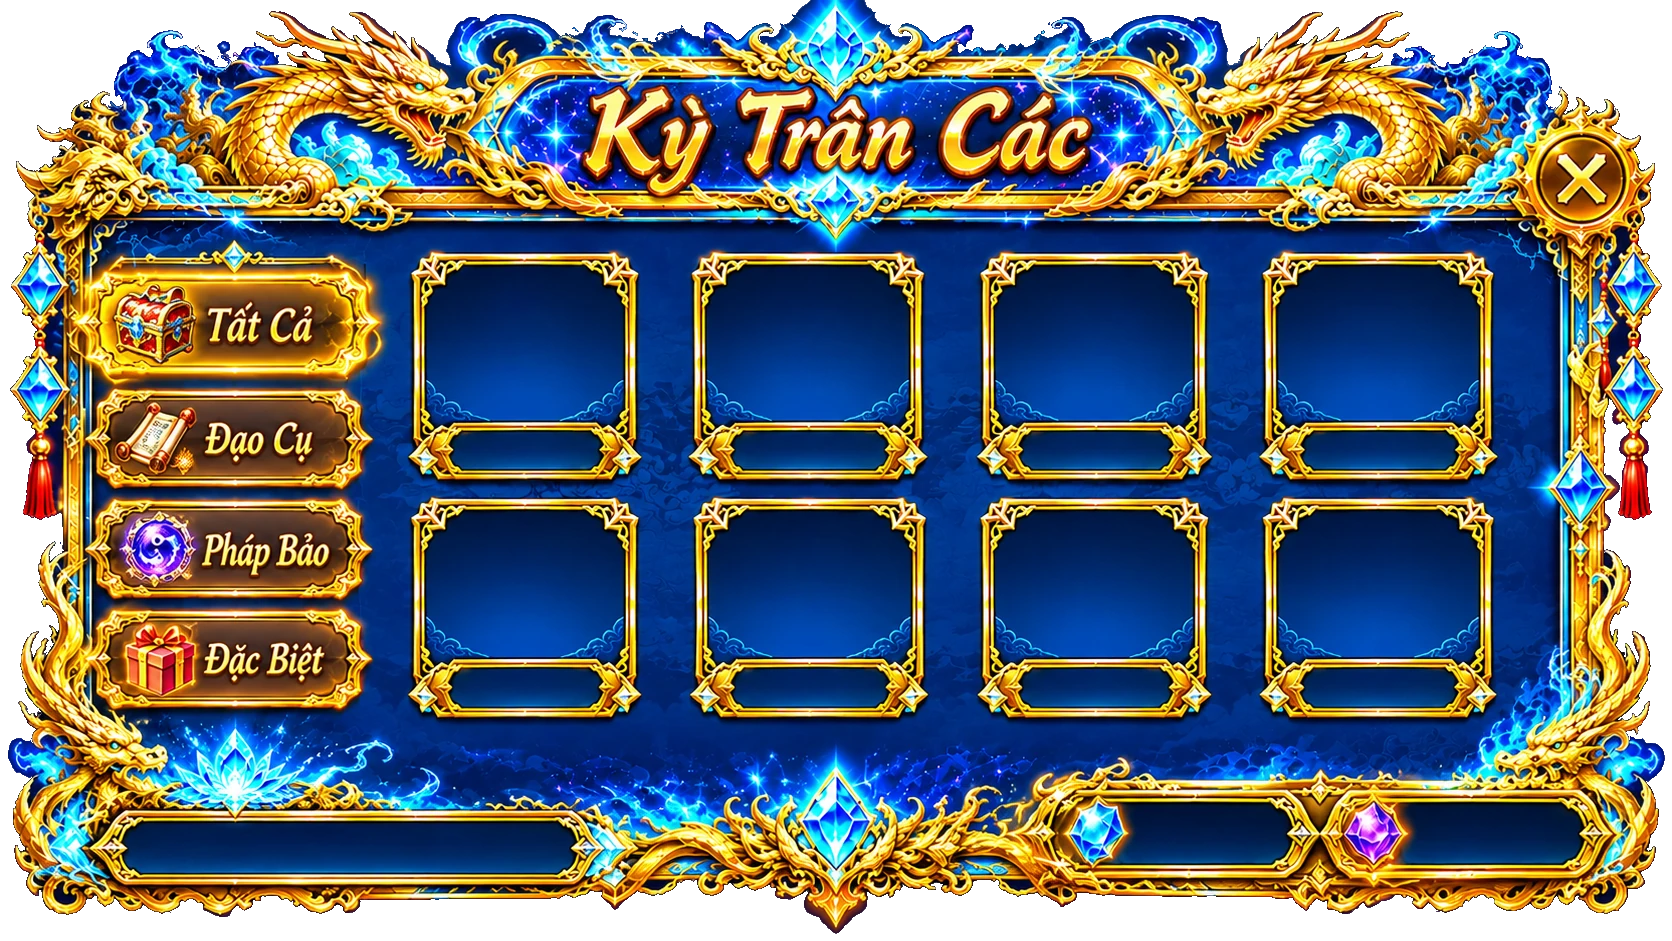
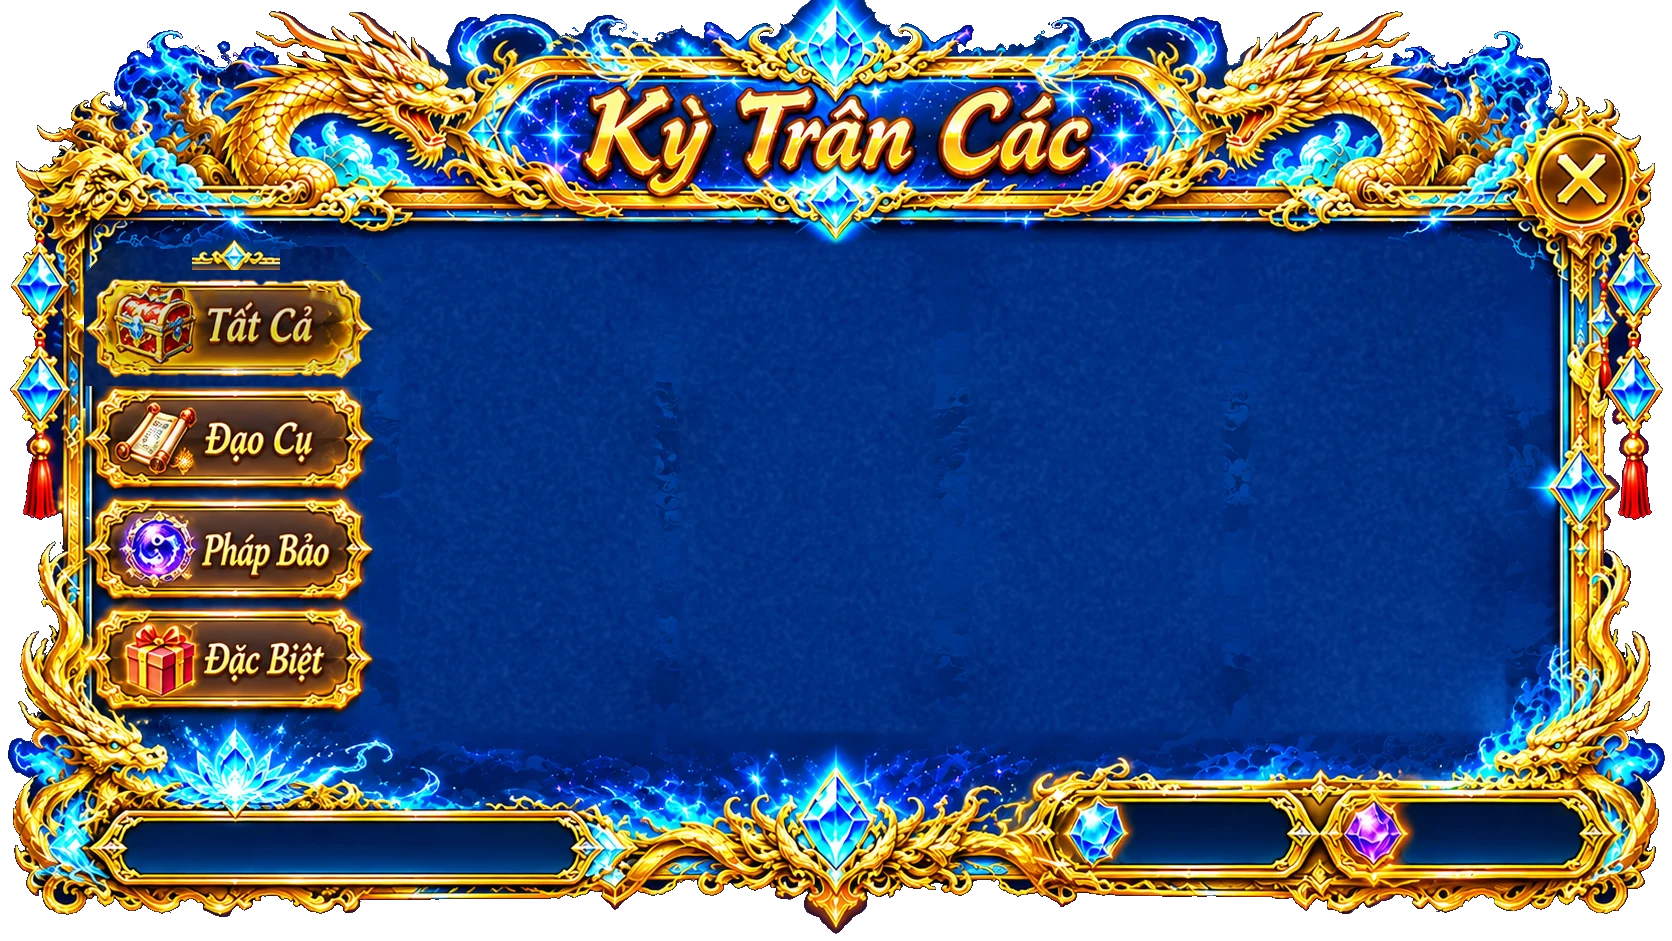
Cua hang: tab sang vien vang, luoi o cuon, dong ho lam moi 30 phut
Claude-Session: https://claude.ai/code/session_01WtY8uwZ5q8QWACvPTQwhAS

Changed region(s): [[0.0311, 0.2465, 0.9019, 0.8013]]

diff --git a/game-moi/85-cua-hang.js b/game-moi/85-cua-hang.js
@@ -1,21 +1,34 @@
-/* 85-cua-hang.js - KỲ TRÂN CÁC (cửa hàng). BƯỚC 1 (25/11/2026): chỉ có KHUNG + hiện TIỀN TỆ. CHƯA có vật phẩm, chưa mua bán.
-   Ảnh khung: game-moi/khung-cua-hang.webp (1672x941, đã tách nền). Chữ "Kỳ Trân Các", nút X, 4 nhãn bên trái (Tất Cả / Đạo Cụ / Pháp Bảo / Đặc Biệt),
-   8 ô vật phẩm trống, 2 ô tiền ở góc phải dưới đều đã VẼ SẴN trong ảnh. Module chỉ phủ vùng bấm trong suốt + vẽ số tiền lên 2 ô tiền.
-   Mở: bấm nút Kỳ Trân Các (81-nut-moi.js gọi TTGSHOP.open). Đóng: nút X, chạm ngoài khung, hoặc phím Esc.
-   Tiền: đọc từ 66-tien-te.js (TTGTIEN): ô trái (ngọc lam) = Tinh Thạch 'tt', ô phải (ngọc tím) = Thú Thần Thạch 'ttt'. Số tiền tự cập nhật mỗi 0,5s khi bảng đang mở.
-   Tọa độ tính theo pixel ảnh khung (SW x SH). Đổi ảnh khung khác thì chỉ sửa khối BOX bên dưới.
-   Việc kế tiếp (chưa làm): đưa vật phẩm vào 8 ô (ô nằm ở BOX.slots), 4 tab bên trái (BOX.tabs), ô thông tin dưới trái (BOX.info). */
+/* 85-cua-hang.js - KỲ TRÂN CÁC (cửa hàng). BƯỚC 2 (25/11/2026): khung + tiền tệ + 4 TAB sáng viền + LƯỚI Ô CUỘN + ĐỒNG HỒ LÀM MỚI 30 PHÚT. CHƯA có vật phẩm, chưa mua bán.
+   ẢNH (đều cắt từ ảnh khung gốc 1672x941):
+     khung-cua-hang.webp   = khung chính, đã XÓA 8 ô vuông và XÓA viền sáng của tab Tất Cả (4 tab đều ở trạng thái thường). Tiêu đề, nút X, nhãn tab, ô tiền, thanh dài dưới trái vẽ sẵn trong ảnh.
+     cua-hang-sang.webp    = VIỀN SÁNG VÀNG cắt từ tab Tất Cả (347x160, chỉ phần quầng ngoài viền). Phủ lên tab đang chọn.
+     cua-hang-tab-mask.webp= hình bóng tab (287x100) để làm sáng nhẹ thân tab đang chọn.
+     cua-hang-o.webp       = 1 ô vuông vật phẩm (240x235), nhân bản thành lưới cuộn.
+   TAB: Tất Cả / Đạo Cụ / Pháp Bảo / Đặc Biệt. Bấm tab nào thì tab đó sáng, lưới về đầu. Tab hiện tại: TTGSHOP.tab().
+   LƯỚI: 4 cột, cuộn dọc bằng thanh cuộn vàng bên phải (vuốt hoặc kéo thanh). Số ô = max(CFG.oToiThieu, số món làm tròn lên bội của 4). Hiện CHƯA có món nên hiện 16 ô trống để thử cuộn (CFG.oToiThieu); khi có món thì đổi hàm items(tab).
+   LÀM MỚI: CFG.lamMoiPhut = 30. Thanh dài dưới trái hiện "Làm mới sau: mm:ss". Mốc bắt đầu chu kỳ lưu ở localStorage khóa ttg_moi_cuahang_lm nên tắt game vẫn tính thời gian trôi. Hết 30 phút thì sang chu kỳ mới và gọi các hàm đăng ký bằng TTGSHOP.onRefresh(fn) (sau này dùng để đổi hàng bán).
+   TIỀN: đọc từ 66-tien-te.js (TTGTIEN): ô trái (ngọc lam) = Tinh Thạch 'tt', ô phải (ngọc tím) = Thú Thần Thạch 'ttt'.
+   Mở: nút Kỳ Trân Các (81-nut-moi.js gọi TTGSHOP.open). Đóng: nút X, chạm ngoài khung, Esc. Mọi tọa độ ở khối BOX, tính theo pixel ảnh khung (SW x SH). */
 (function(){
 'use strict';
-var SW=1672,SH=941,IMG='game-moi/khung-cua-hang.webp?v=1';
-var BOX={
-  close:{x:1515,y:128,w:130,h:130},                       /* vùng bấm phủ lên nút X vẽ sẵn ở góc phải trên */
-  tt:{x:1128,y:802,w:178,h:62},                           /* ô tiền trái (ngọc lam): Tinh Thạch */
-  ttt:{x:1402,y:802,w:182,h:62},                          /* ô tiền phải (ngọc tím): Thú Thần Thạch */
-  tabs:[{x:92,y:258,w:280,h:118},{x:92,y:392,w:280,h:98},{x:92,y:502,w:280,h:98},{x:92,y:612,w:280,h:98}],   /* Tất Cả / Đạo Cụ / Pháp Bảo / Đặc Biệt (chưa gắn chức năng) */
-  info:{x:112,y:812,w:480,h:62}                           /* ô dài dưới trái (để dành: tên/giá món đang chọn) */
+var SW=1672,SH=941,V='?v=2',D='game-moi/';
+var IMG=D+'khung-cua-hang.webp'+V,GLOW=D+'cua-hang-sang.webp'+V,MASK=D+'cua-hang-tab-mask.webp'+V,SLOT=D+'cua-hang-o.webp'+V;
+var CFG={
+  lamMoiPhut:30,      /* chu kỳ làm mới hàng (phút) */
+  oToiThieu:16,       /* số ô tối thiểu mỗi tab (bội của 4). 16 = 4 hàng trống để thử cuộn; đặt 8 khi đã có món thật */
+  key:'ttg_moi_cuahang_lm'
 };
-var root,fr,E={},isOpen=false,openAt=0,timer=0;
+var BOX={
+  close:{x:1515,y:128,w:130,h:130},                        /* vùng bấm phủ lên nút X vẽ sẵn */
+  tt:{x:1128,y:802,w:178,h:62},                            /* ô tiền trái: Tinh Thạch */
+  ttt:{x:1402,y:802,w:182,h:62},                           /* ô tiền phải: Thú Thần Thạch */
+  tab:{x:86,y0:279,w:287,h:100,pitch:110},                 /* 4 tab xếp dọc: y = y0 + pitch * thứ tự */
+  glow:{ox:-30,oy:-30,w:347,h:160},                        /* viền sáng: lệch so với góc tab, cỡ ảnh cua-hang-sang.webp */
+  list:{x:396,y:244,w:1160,h:484,padL:9,padT:4,cw:284,ch:245,sw:240,sh:235},   /* vùng cuộn; padL/padT = ô đầu cách mép; cw/ch = bước cột/hàng; sw/sh = cỡ 1 ô */
+  timer:{x:122,y:818,w:462,h:54}                           /* thanh dài dưới trái: đồng hồ làm mới */
+};
+var TABS=[{id:'all',ten:'Tất Cả'},{id:'dao-cu',ten:'Đạo Cụ'},{id:'phap-bao',ten:'Pháp Bảo'},{id:'dac-biet',ten:'Đặc Biệt'}];
+var root,fr,E={},isOpen=false,openAt=0,timer=0,cur='all',anchor=0,hooks=[];
 
 var css=[
 '.sh{position:fixed;left:0;top:0;right:0;bottom:0;z-index:60;display:none;align-items:center;justify-content:center;background:rgba(3,4,18,.74);font-family:"Noto Serif","Palatino Linotype",Georgia,"Times New Roman",serif;-webkit-tap-highlight-color:transparent}',
@@ -23,42 +36,95 @@ var css=[
 '.sh-fr{position:relative;width:min(98vw,calc(96vh*'+SW+'/'+SH+'));aspect-ratio:'+SW+'/'+SH+';background:url('+IMG+') 0 0/100% 100% no-repeat;--u:1px;animation:sh-in .18s ease-out}',
 '@keyframes sh-in{from{opacity:0;transform:scale(.95)}to{opacity:1;transform:none}}',
 '.sh-fr>*{position:absolute;box-sizing:border-box}',
-'.sh-x{padding:0;border:0;border-radius:50%;background:transparent;cursor:pointer;touch-action:manipulation} /* nút X đã vẽ sẵn trong khung: nút này chỉ là vùng bấm trong suốt */',
+'.sh-x{padding:0;border:0;border-radius:50%;background:transparent;cursor:pointer;touch-action:manipulation}',
 '.sh-x:active{box-shadow:0 0 calc(var(--u)*24) rgba(255,224,102,.85),inset 0 0 calc(var(--u)*24) rgba(255,224,102,.35)}',
 '.sh-m{display:flex;align-items:center;justify-content:center;font-weight:800;font-size:calc(var(--u)*34);line-height:1;white-space:nowrap;overflow:hidden;pointer-events:none;text-shadow:0 0 calc(var(--u)*6) #02061c,calc(var(--u)*2) calc(var(--u)*2) 0 #02061c,calc(var(--u)*-2) calc(var(--u)*2) 0 #02061c}',
-'.sh-m.tt{color:#bdf3ff}',   /* cùng màu với số Tinh Thạch ở sảnh (66-tien-te.js) */
-'.sh-m.ttt{color:#e6c8ff}'
+'.sh-m.tt{color:#bdf3ff}.sh-m.ttt{color:#e6c8ff}',
+'.sh-m.lm{color:#ffe9a0;font-size:calc(var(--u)*34);letter-spacing:calc(var(--u)*.5)}',   /* đồng hồ làm mới */
+/* TAB: nút trong suốt phủ lên nhãn vẽ sẵn; tab đang chọn bật viền sáng (.sh-gl) + làm sáng thân (.sh-lt) */
+'.sh-tab{padding:0;border:0;background:transparent;cursor:pointer;touch-action:manipulation;overflow:visible;z-index:1}',
+'.sh-tab.on{z-index:2}',
+'.sh-gl,.sh-lt{position:absolute;pointer-events:none;opacity:0;transition:opacity .18s}',
+'.sh-gl{background:url('+GLOW+') 0 0/100% 100% no-repeat}',
+'.sh-lt{left:0;top:0;width:100%;height:100%;background:linear-gradient(180deg,#ffc24d,#e07a10);mix-blend-mode:screen;-webkit-mask:url('+MASK+') 0 0/100% 100% no-repeat;mask:url('+MASK+') 0 0/100% 100% no-repeat}',
+'.sh-tab.on .sh-gl{opacity:1}',
+'.sh-tab.on .sh-lt{opacity:.16}',
+'.sh-tab:active .sh-lt{opacity:.3}',
+/* LƯỚI Ô CUỘN */
+'.sh-ls{overflow-y:auto;overflow-x:hidden;overscroll-behavior:contain;touch-action:pan-y;-webkit-overflow-scrolling:touch}',
+'.sh-ls::-webkit-scrollbar{width:calc(var(--u)*20)}',
+'.sh-ls::-webkit-scrollbar-track{margin:calc(var(--u)*10) 0;border-radius:calc(var(--u)*10);background:rgba(2,8,40,.72);border:calc(var(--u)*2) solid #8a6a22}',
+'.sh-ls::-webkit-scrollbar-thumb{border-radius:calc(var(--u)*10);border:calc(var(--u)*2) solid #5a3a00;background:linear-gradient(90deg,#ffe48a,#d99a24 55%,#ffd66b)}',
+'.sh-gd{display:grid;grid-template-columns:repeat(4,calc(var(--u)*'+BOX.list.sw+'));grid-auto-rows:calc(var(--u)*'+BOX.list.sh+');column-gap:calc(var(--u)*'+(BOX.list.cw-BOX.list.sw)+');row-gap:calc(var(--u)*'+(BOX.list.ch-BOX.list.sh)+');padding:calc(var(--u)*'+BOX.list.padT+') 0 calc(var(--u)*10) calc(var(--u)*'+BOX.list.padL+')}',
+'.sh-o{position:relative;width:calc(var(--u)*'+BOX.list.sw+');height:calc(var(--u)*'+BOX.list.sh+');background:url('+SLOT+') 0 0/100% 100% no-repeat}'
 ].join('\n');
 var stl=document.createElement('style');stl.textContent=css;document.head.appendChild(stl);
+[GLOW,MASK,SLOT].forEach(function(u){try{(new Image()).src=u;}catch(e){}});   /* tải trước cho lần mở đầu không nháy */
 
 function box(c,b){var s=c.style;s.left=(b.x/SW*100)+'%';s.top=(b.y/SH*100)+'%';s.width=(b.w/SW*100)+'%';s.height=(b.h/SH*100)+'%';return c;}
 function mk(tag,cls,b){var c=document.createElement(tag);c.className=cls;box(c,b);fr.appendChild(c);return c;}
 function unit(){if(fr)fr.style.setProperty('--u',(fr.clientWidth/SW)+'px');}
 function fmt(n){return window.TTGTIEN&&TTGTIEN.fmt?TTGTIEN.fmt(n):String(n);}
 function get(k){return window.TTGTIEN?TTGTIEN.get(k):0;}
-/* Số dài quá ô thì thu nhỏ chữ cho vừa (không bị cắt) */
-function fit(el,t){el.textContent=t;el.style.fontSize='';var f=34,u=fr.clientWidth/SW;while(f>12&&el.scrollWidth>el.clientWidth+1){f--;el.style.fontSize='calc(var(--u)*'+f+')';if(u<=0)break;}}
-function render(){if(!root)return;fit(E.tt,fmt(get('tt')));fit(E.ttt,fmt(get('ttt')));}
+function fit(el,t,f0){if(el.textContent===t&&!el._dirty)return;el.textContent=t;el.style.fontSize='';var f=f0||34;while(f>12&&el.scrollWidth>el.clientWidth+1){f--;el.style.fontSize='calc(var(--u)*'+f+')';}}
+
+/* ===== ĐỒNG HỒ LÀM MỚI ===== */
+function chu(){return Math.max(1,CFG.lamMoiPhut)*60000;}
+function loadAnchor(){var v=0;try{v=+localStorage.getItem(CFG.key)||0;}catch(e){}anchor=v;}
+function saveAnchor(){try{localStorage.setItem(CFG.key,String(anchor));}catch(e){}}
+/* Cập nhật mốc theo giờ máy; trả về số chu kỳ đã qua kể từ lần kiểm tra trước (>=1 nghĩa là vừa làm mới) */
+function tick(){
+  var now=Date.now(),C=chu(),n=0;
+  if(!anchor||anchor>now){anchor=now;saveAnchor();return 0;}   /* lần đầu, hoặc đồng hồ máy bị chỉnh lùi: bắt đầu chu kỳ mới */
+  if(now-anchor>=C){n=Math.floor((now-anchor)/C);anchor+=n*C;saveAnchor();hooks.forEach(function(f){try{f(n);}catch(e){}});}
+  return n;
+}
+function remaining(){tick();return Math.max(0,chu()-(Date.now()-anchor));}
+function mmss(ms){var s=Math.ceil(ms/1000),m=Math.floor(s/60);s%=60;return (m<10?'0':'')+m+':'+(s<10?'0':'')+s;}
+
+/* ===== LƯỚI ===== */
+function items(tab){return [];}   /* CHƯA có vật phẩm. Sau này: trả danh sách món của tab ('all' = tất cả) */
+function renderList(){
+  var n=Math.max(CFG.oToiThieu,Math.ceil(items(cur).length/4)*4),h='',i;
+  for(i=0;i<n;i++)h+='<div class="sh-o"></div>';
+  E.gd.innerHTML=h;
+}
+function setTab(id){
+  cur=id;
+  E.tabs.forEach(function(b){b.classList.toggle('on',b.getAttribute('data-id')===id);b.setAttribute('aria-pressed',b.getAttribute('data-id')===id?'true':'false');});
+  renderList();E.ls.scrollTop=0;
+}
+function render(){if(!root)return;fit(E.tt,fmt(get('tt')));fit(E.ttt,fmt(get('ttt')));fit(E.lm,'Làm mới sau: '+mmss(remaining()));}
 
 function build(){
   root=document.createElement('div');root.className='sh';
   fr=document.createElement('div');fr.className='sh-fr';root.appendChild(fr);
+  E.ls=mk('div','sh-ls',BOX.list);E.gd=document.createElement('div');E.gd.className='sh-gd';E.ls.appendChild(E.gd);
+  E.tabs=TABS.map(function(t,i){
+    var T=BOX.tab,b=mk('button','sh-tab',{x:T.x,y:T.y0+T.pitch*i,w:T.w,h:T.h});b.type='button';b.setAttribute('data-id',t.id);b.setAttribute('aria-label',t.ten);
+    var g=document.createElement('span'),l=document.createElement('span'),G=BOX.glow;g.className='sh-gl';l.className='sh-lt';
+    g.style.left=(G.ox/T.w*100)+'%';g.style.top=(G.oy/T.h*100)+'%';g.style.width=(G.w/T.w*100)+'%';g.style.height=(G.h/T.h*100)+'%';
+    b.appendChild(g);b.appendChild(l);
+    b.addEventListener('click',function(){if(cur!==t.id)setTab(t.id);});
+    return b;});
   E.x=mk('button','sh-x',BOX.close);E.x.type='button';E.x.setAttribute('aria-label','Đóng');
-  E.tt=mk('div','sh-m tt',BOX.tt);E.ttt=mk('div','sh-m ttt',BOX.ttt);
+  E.tt=mk('div','sh-m tt',BOX.tt);E.ttt=mk('div','sh-m ttt',BOX.ttt);E.lm=mk('div','sh-m lm',BOX.timer);
   document.body.appendChild(root);
   E.x.addEventListener('click',close);
-  root.addEventListener('click',function(e){if(e.target===root&&performance.now()-openAt>400)close();});   /* chạm ngoài khung = đóng (chống chạm nhầm 0,4s đầu) */
+  root.addEventListener('click',function(e){if(e.target===root&&performance.now()-openAt>400)close();});
   document.addEventListener('keydown',function(e){if(isOpen&&e.key==='Escape')close();});
-  window.addEventListener('resize',function(){unit();render();});
+  window.addEventListener('resize',function(){unit();E.tt._dirty=E.ttt._dirty=E.lm._dirty=true;render();E.tt._dirty=E.ttt._dirty=E.lm._dirty=false;});
 }
 function open(){
-  if(window.TTGBALO&&TTGBALO.close)TTGBALO.close();   /* mở cửa hàng -> đóng Balo / panel Thú Thần cho khỏi chồng nhau */
+  if(window.TTGBALO&&TTGBALO.close)TTGBALO.close();
   if(window.TTGTHU&&TTGTHU.close)TTGTHU.close();
   if(!root)build();
-  isOpen=true;openAt=performance.now();root.classList.add('on');unit();render();
-  clearInterval(timer);timer=setInterval(render,500);
+  isOpen=true;openAt=performance.now();root.classList.add('on');unit();
+  setTab('all');render();
+  clearInterval(timer);timer=setInterval(function(){var was=anchor;render();if(anchor!==was&&isOpen)renderList();},250);   /* hết 30 phút -> làm mới lưới */
 }
 function close(){if(!root)return;isOpen=false;root.classList.remove('on');clearInterval(timer);}
 
-window.TTGSHOP={open:open,close:close,BOX:BOX,isOpen:function(){return isOpen;}};
+loadAnchor();tick();   /* chu kỳ chạy theo giờ máy kể cả khi chưa mở cửa hàng */
+window.TTGSHOP={open:open,close:close,BOX:BOX,CFG:CFG,isOpen:function(){return isOpen;},tab:function(){return cur;},setTab:function(id){if(root)setTab(id);else cur=id;},remaining:remaining,onRefresh:function(f){if(typeof f==='function')hooks.push(f);}};
 })();

diff --git a/game-moi/index.html b/game-moi/index.html
@@ -125,7 +125,7 @@ canvas{position:fixed;left:0;top:0;image-rendering:pixelated;image-rendering:cri
     if(all&&pct>=100&&!shown){shown=true;pct=100;paint();el.className='ready';warmMap()}
   },50);
   /* TẢI TRƯỚC: ảnh dùng ngay khi vào game (khung, nút, icon, nền sảnh). Trước đây vào game rồi mới tải nên màn hình bị đen/nháy một lúc. Thêm ảnh cần sớm thì thêm vào PRE. */
-  var G='game-moi/',PRE=['khung-sanh.webp?v=2','khung-hang-nut.webp?v=2','khung-nut.webp','khung-thong-bao.webp?v=1','khung-tb-0.webp?v=1','khung-tb-1.webp?v=1','khung-chien-dau.webp','khung-tien.webp','khung-thu.webp','khung-balo.webp','khung-cua-hang.webp?v=1','khung-chon-thu.webp','khung-chon-chau.webp','khung-trang-bi.webp','nen-hang-nut.png','nut-bat.webp','nut-khung.webp','nut-trong.webp','nut-mo-khoa.webp','nut-bo-chon.webp','nut-da-trang-bi.webp','nut-bo-trang-bi.webp','nut-dang-ra-tran.webp',
+  var G='game-moi/',PRE=['khung-sanh.webp?v=2','khung-hang-nut.webp?v=2','khung-nut.webp','khung-thong-bao.webp?v=1','khung-tb-0.webp?v=1','khung-tb-1.webp?v=1','khung-chien-dau.webp','khung-tien.webp','khung-thu.webp','khung-balo.webp','khung-cua-hang.webp?v=2','khung-chon-thu.webp','khung-chon-chau.webp','khung-trang-bi.webp','nen-hang-nut.png','nut-bat.webp','nut-khung.webp','nut-trong.webp','nut-mo-khoa.webp','nut-bo-chon.webp','nut-da-trang-bi.webp','nut-bo-trang-bi.webp','nut-dang-ra-tran.webp',
     'icon/balo.webp','icon/boss-the-gioi.webp','icon/cua-hang.webp','icon/cuong-hoa.webp','icon/dau-truong.webp','icon/diem-danh.webp','icon/do-giam.webp','icon/khung-chon-vung.webp','icon/nhiem-vu.webp','icon/pho-ban.webp','icon/ren.webp','icon/tham-hiem.webp','icon/thap-thi-luyen.webp','icon/thu-than.webp','icon/trang-bi.webp',
     'bg-khoi-dau.webp','bg-tuyet-nguyen.webp','bg-suong-coc.webp','bg-van-dao.webp','bg-phong-nguyen.webp','bg-loi-vuc.webp','bg-nguyet-cung.webp','bg-thuy-nguyet-canh.webp','bg-xich-hoa-dia.webp','bg-thanh-lam.webp'],
     preN=0,preD=0,loadEv=false,fontOk=!(document.fonts&&document.fonts.ready),keep=[];
@@ -246,7 +246,7 @@ canvas{position:fixed;left:0;top:0;image-rendering:pixelated;image-rendering:cri
 <script src="game-moi/74-ren-cuong-hoa.js"></script>
 <script src="game-moi/75-tien-hoa-thu.js"></script>
 <script src="game-moi/81-nut-moi.js?v=5"></script>
-<script src="game-moi/85-cua-hang.js?v=1"></script>
+<script src="game-moi/85-cua-hang.js?v=2"></script>
 <script src="game-moi/82-tham-hiem-auto.js?v=1"></script>
 <script src="game-moi/83-sanh-song.js?v=1"></script>
 <script src="game-moi/84-chu-tran.js?v=1"></script>

diff --git a/game-moi/GHI_CHU.md b/game-moi/GHI_CHU.md
@@ -158,3 +158,7 @@ Nút **Khung: HD 256 / 128** (cùng hàng với nút đổi bậc): bấm để 
 - Khung = `game-moi/khung-cua-hang.webp` (1672x941, đã tách nền ngoài). Chữ tiêu đề, nút X, 4 nhãn trái (Tất Cả / Đạo Cụ / Pháp Bảo / Đặc Biệt), 8 ô trống, 2 ô tiền đều vẽ sẵn trong ảnh. Bấm nút Kỳ Trân Các (`81-nut-moi.js` gọi `TTGSHOP.open()`) để mở; đóng bằng nút X, chạm ngoài khung hoặc Esc.
 - **Chưa có vật phẩm / mua bán.** Hiện chỉ hiện tiền: ô trái (ngọc lam) = Tinh Thạch, ô phải (ngọc tím) = Thú Thần Thạch, đọc từ `TTGTIEN` (66-tien-te.js), cập nhật mỗi 0,5s khi bảng mở.
 - Mọi tọa độ (nút X, 2 ô tiền, 4 tab, 8 ô, ô thông tin) ở khối `BOX` đầu file, tính theo pixel ảnh khung. Thêm vật phẩm sau này: vẽ vào các ô theo `BOX`, dùng `TTGBALO.add`/`TTGTIEN.add` để mua.
+- **Bước 2 (25/11/2026)**: khung nay được làm lại (`khung-cua-hang.webp?v=2`): đã xóa 8 ô vuông và xóa viền sáng của tab Tất Cả (cả 4 tab ở trạng thái thường). Ảnh tách thêm: `cua-hang-sang.webp` (viền sáng vàng cắt từ tab Tất Cả), `cua-hang-tab-mask.webp` (hình bóng tab, để làm sáng thân tab), `cua-hang-o.webp` (1 ô vuông, nhân bản thành lưới).
+  - **Tab**: Tất Cả / Đạo Cụ / Pháp Bảo / Đặc Biệt. Bấm tab nào thì tab đó bật viền sáng + thân sáng nhẹ, lưới về đầu. `TTGSHOP.tab()` / `TTGSHOP.setTab(id)` (id: all, dao-cu, phap-bao, dac-biet).
+  - **Lưới cuộn**: 4 cột, cuộn dọc bằng thanh cuộn vàng. Số ô = max(`CFG.oToiThieu`, số món làm tròn lên bội 4). Hiện 16 ô trống để thử cuộn; có món thật thì đặt 8 và sửa hàm `items(tab)`.
+  - **Làm mới**: `CFG.lamMoiPhut=30`, thanh dài dưới trái hiện "Làm mới sau: mm:ss". Mốc chu kỳ lưu ở khóa `ttg_moi_cuahang_lm` (tính theo giờ máy, tắt game vẫn chạy). Hết chu kỳ gọi các hàm đăng ký bằng `TTGSHOP.onRefresh(fn)`.
